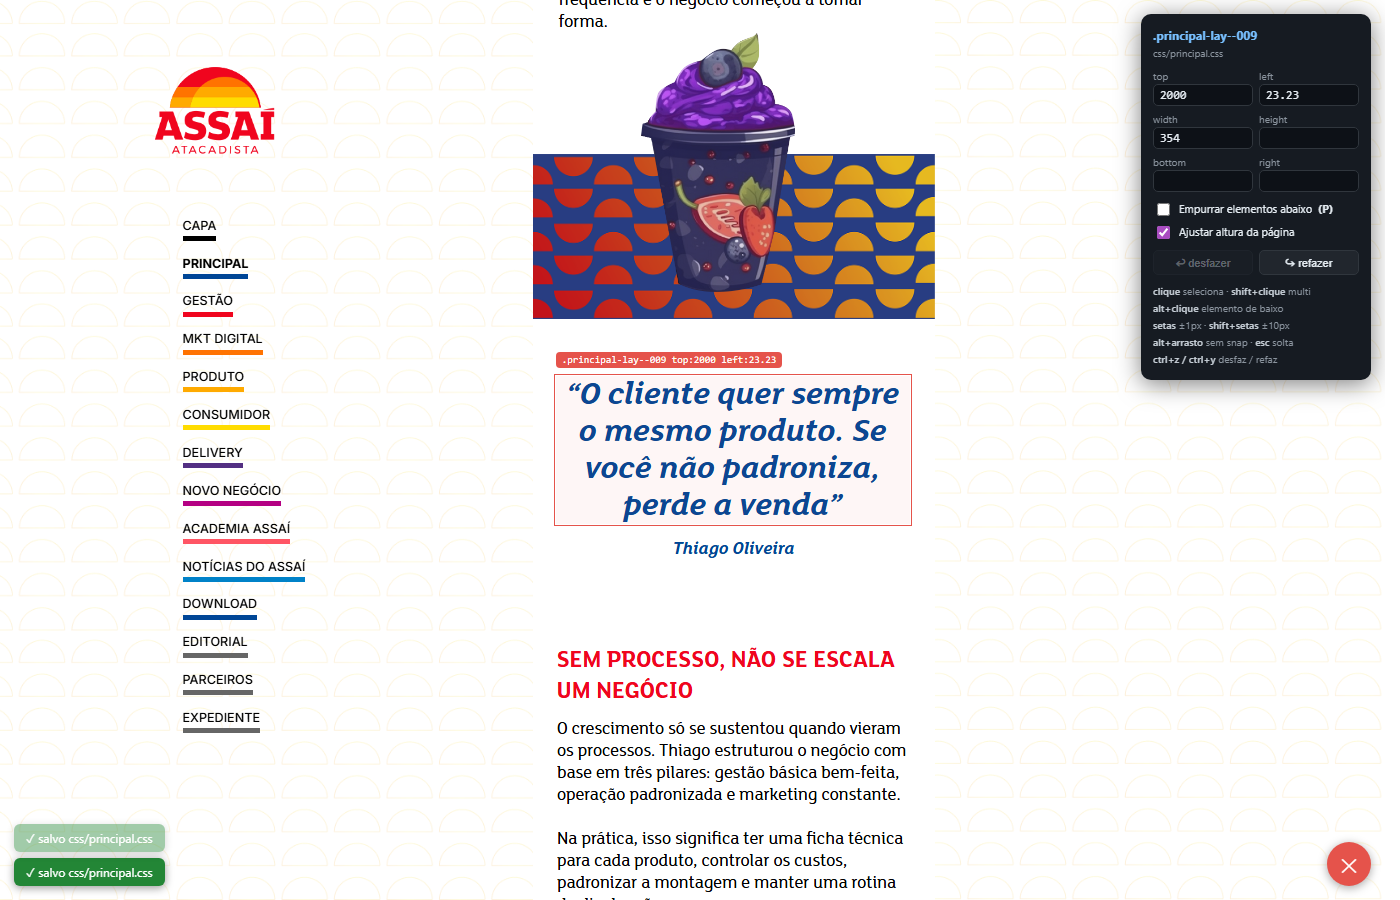
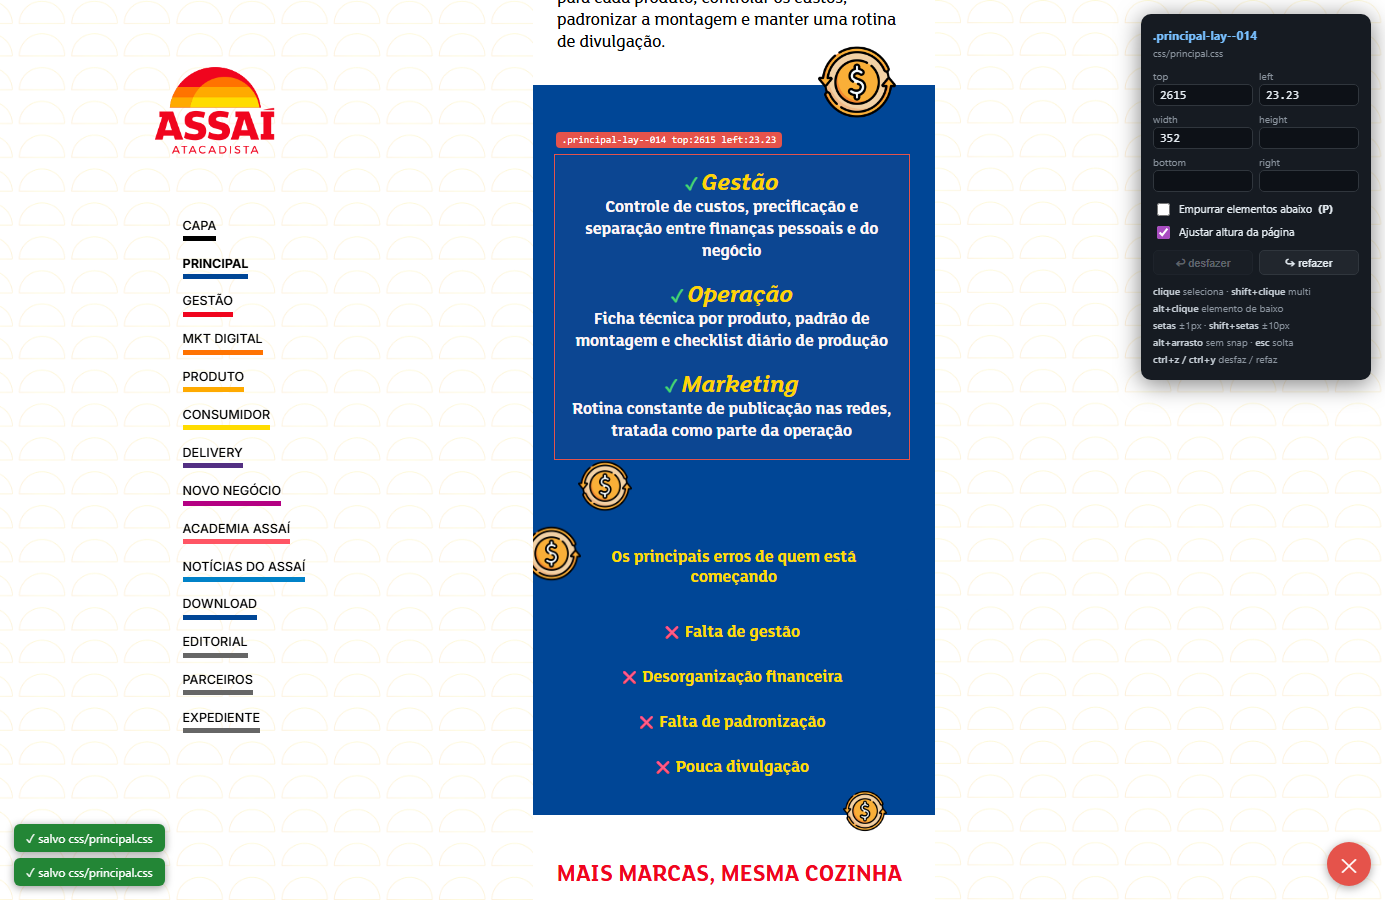
Editor: mapeamento por regra dona de cada propriedade
- ignora regras sem medidas em px (.img-cover etc.) — clique na imagem
  seleciona o contêiner posicionado
- posição dividida entre classes: cada eixo grava na última regra da
  cascata que define a propriedade (ex. top na .z-deco-bg-mid, left na
  .principal-lay--013), sem criar props espúrias
- camadas com pointer-events:none ficam selecionáveis no modo edição
- e2e: +2 cenários (imagem em contêiner, posição dividida)

Changed region(s): [[0.3686, 0.0, 0.6757, 1.0], [0.0, 0.9022, 0.1229, 0.9644]]

diff --git a/tools/editor.js b/tools/editor.js
@@ -80,7 +80,13 @@
         if (rule.type !== 1 /* STYLE_RULE */ || rule.parentRule) continue;
         var st = rule.style;
         if (!st) continue;
-        if (!st.top && !st.left && !st.bottom && !st.right && !st.width && !st.height) continue;
+        // só interessa regra com pelo menos uma medida em px — descarta
+        // utilitárias tipo .img-cover { width:100%; height:100% }, que
+        // "roubavam" o clique da imagem sem ter nada editável
+        var temPx = ["top", "left", "bottom", "right", "width", "height"].some(function (p) {
+          return px(st.getPropertyValue(p)) !== null;
+        });
+        if (!temPx) continue;
         var entry = {
           selector: norm(rule.selectorText),
           style: st,
@@ -96,27 +102,38 @@
     for (var f in porArquivo) {
       if (porArquivo[f] > max) { max = porArquivo[f]; pageCssFile = f; }
     }
-    // mapeia elementos -> regra (preferindo -lay--, senão a última que casa)
+    // mapeia elemento -> TODAS as regras que casam (a posição pode estar
+    // dividida: ex. left na .principal-lay--013 e top na .z-deco-bg-mid)
     var els = mainEl.querySelectorAll("*");
     for (var i = 0; i < els.length; i++) {
       var el = els[i];
-      var lay = null, outra = null;
+      var cands = [];
       for (var j = 0; j < ruleIndex.length; j++) {
         var en = ruleIndex[j];
-        var seletorSimples = en.selector.indexOf(",") === -1;
-        if (!seletorSimples) continue;
+        if (en.selector.indexOf(",") !== -1) continue;
         try {
           if (!el.matches(en.selector)) continue;
         } catch (e) { continue; }
-        if (en.lay) lay = en;
-        else outra = en;
+        cands.push(en);
       }
-      var escolhida = lay || outra;
-      if (escolhida) elMap.set(el, escolhida);
+      if (!cands.length) continue;
+      var prim = null;
+      for (var k = 0; k < cands.length; k++) if (cands[k].lay) { prim = cands[k]; break; }
+      elMap.set(el, { cands: cands, prim: prim || cands[cands.length - 1] });
     }
   }
 
-  function ruleOf(el) { return elMap.get(el) || null; }
+  function mapOf(el) { return elMap.get(el) || null; }
+
+  /* Dona de uma propriedade = a ÚLTIMA regra na ordem da cascata que a
+   * define em px (é a que o navegador aplica entre classes de mesmo peso). */
+  function propOwner(map, prop) {
+    var win = null;
+    for (var i = 0; i < map.cands.length; i++) {
+      if (px(map.cands[i].style.getPropertyValue(prop)) !== null) win = map.cands[i];
+    }
+    return win;
+  }
 
   function editableFromPoint(x, y, aposEl) {
     var pilha = document.elementsFromPoint(x, y);
@@ -208,20 +225,36 @@
   function gestureStart(tipo) {
     var pushMode = ui.chkPush.checked;
     var itens = [];
-    var vistos = new Set();
+    var porEntry = new Map();
     selection.forEach(function (el) {
-      var en = ruleOf(el);
-      if (!en || vistos.has(en)) return;
-      vistos.add(en);
-      itens.push({ entry: en, start: snapshotEntry(en), sel: true });
+      var map = mapOf(el);
+      if (!map) return;
+      var ox = propOwner(map, "left") || propOwner(map, "right");
+      var oy = propOwner(map, "top") || propOwner(map, "bottom");
+      [[ox, "mx"], [oy, "my"]].forEach(function (par) {
+        var en = par[0];
+        if (!en) return;
+        var item = porEntry.get(en);
+        if (!item) {
+          item = { entry: en, start: snapshotEntry(en), mx: false, my: false, sel: true };
+          porEntry.set(en, item);
+          itens.push(item);
+        }
+        item[par[1]] = true;
+      });
     });
-    if (!itens.length) return null;
+    if (!itens.length) {
+      toast("este elemento não tem posição em px para mover — tente Alt+clique no contêiner", true);
+      return null;
+    }
 
-    var primario = itens[0];
+    var vistos = new Set(porEntry.keys());
+    var mapPrim = mapOf(selection[0]);
+    var oyPrim = mapPrim ? propOwner(mapPrim, "top") : null;
     var afetadas = [];
     var heightItem = null;
-    if (pushMode && primario.start.top !== undefined) {
-      var limiar = primario.start.top;
+    if (pushMode && oyPrim) {
+      var limiar = px(oyPrim.style.getPropertyValue("top"));
       for (var i = 0; i < ruleIndex.length; i++) {
         var en = ruleIndex[i];
         if (en.file !== pageCssFile || vistos.has(en)) continue;
@@ -275,10 +308,14 @@
 
     g.itens.forEach(function (it) {
       var props = {};
-      if (it.start.left !== undefined) props.left = fmt(it.start.left + dx);
-      else if (it.start.right !== undefined) props.right = fmt(it.start.right - dx);
-      if (it.start.top !== undefined) props.top = fmt(it.start.top + dy);
-      else if (it.start.bottom !== undefined) props.bottom = fmt(it.start.bottom - dy);
+      if (it.mx) {
+        if (it.start.left !== undefined) props.left = fmt(it.start.left + dx);
+        else if (it.start.right !== undefined) props.right = fmt(it.start.right - dx);
+      }
+      if (it.my) {
+        if (it.start.top !== undefined) props.top = fmt(it.start.top + dy);
+        else if (it.start.bottom !== undefined) props.bottom = fmt(it.start.bottom - dy);
+      }
       applyProps(it.entry, props);
     });
     g.afetadas.forEach(function (it) {
@@ -397,12 +434,14 @@
       box.style.height = r.h + "px";
       ui.caixas.appendChild(box);
       if (i === 0) {
-        var en = ruleOf(el);
+        var map = mapOf(el);
         var badge = document.createElement("div");
         badge.className = "rev-ed-badge";
-        var t = px(en.style.getPropertyValue("top"));
-        var l = px(en.style.getPropertyValue("left"));
-        badge.textContent = en.selector + (t !== null ? "  top:" + t : "") + (l !== null ? "  left:" + l : "");
+        var ot = propOwner(map, "top");
+        var ol = propOwner(map, "left");
+        var t = ot ? px(ot.style.getPropertyValue("top")) : null;
+        var l = ol ? px(ol.style.getPropertyValue("left")) : null;
+        badge.textContent = map.prim.selector + (t !== null ? "  top:" + t : "") + (l !== null ? "  left:" + l : "");
         badge.style.left = r.l + "px";
         badge.style.top = (r.t > 24 ? r.t - 22 : r.b + 4) + "px";
         ui.caixas.appendChild(badge);
@@ -415,11 +454,15 @@
   var CAMPOS = ["top", "left", "width", "height", "bottom", "right"];
 
   function atualizarPainelValores() {
-    var en = selection.length ? ruleOf(selection[0]) : null;
+    var map = selection.length ? mapOf(selection[0]) : null;
     CAMPOS.forEach(function (p) {
       var inp = ui.campos[p];
       if (document.activeElement === inp) return;
-      var v = en ? en.style.getPropertyValue(p) : "";
+      var v = "";
+      if (map) {
+        var own = propOwner(map, p);
+        v = own ? own.style.getPropertyValue(p) : map.prim.style.getPropertyValue(p);
+      }
       inp.value = v ? v.replace(/px$/, "") : "";
     });
   }
@@ -430,9 +473,9 @@
       ui.info.textContent = "clique num elemento para selecionar";
       ui.arquivo.textContent = pageCssFile || "";
     } else {
-      var en = ruleOf(selection[0]);
-      ui.info.textContent = en.selector + (selection.length > 1 ? "  (+" + (selection.length - 1) + ")" : "");
-      ui.arquivo.textContent = en.file;
+      var prim = mapOf(selection[0]).prim;
+      ui.info.textContent = prim.selector + (selection.length > 1 ? "  (+" + (selection.length - 1) + ")" : "");
+      ui.arquivo.textContent = prim.file;
     }
     atualizarPainelValores();
     ui.btnUndo.disabled = !undoStack.length;
@@ -441,7 +484,10 @@
 
   function aplicarCampo(prop) {
     if (!selection.length) return;
-    var en = ruleOf(selection[0]);
+    var map = mapOf(selection[0]);
+    // grava na regra dona da propriedade; se ninguém a define ainda,
+    // cria na regra principal (-lay--) do elemento
+    var en = propOwner(map, prop) || map.prim;
     var bruto = ui.campos[prop].value.trim();
     var antes = en.style.getPropertyValue(prop) || null;
     var depois = bruto === "" ? null : (isNaN(parseFloat(bruto)) ? null : fmt(parseFloat(bruto)));
@@ -621,6 +667,10 @@
     "body.rev-ed-arrastando{cursor:grabbing!important;user-select:none}",
     "html[data-rev-editor] main *{animation:none!important;transition:none!important}",
     "html[data-rev-editor] main [data-animista]{opacity:1!important;visibility:visible!important}",
+    /* camadas decorativas com pointer-events:none precisam ser clicáveis no
+       modo edição; os overlays do próprio editor continuam transparentes */
+    "html[data-rev-editor] main :not(#rev-ed-caixas):not(#rev-ed-guias):not(.rev-ed-box):not(.rev-ed-guia):not(.rev-ed-badge){pointer-events:auto!important}",
+    "#rev-ed-caixas,#rev-ed-guias{pointer-events:none!important}",
   ].join("\n");
 
   function montarUI() {

diff --git a/tools/EDITOR-README.md b/tools/EDITOR-README.md
@@ -58,6 +58,17 @@ as regras da página com `top` maior ou igual** ao dele, e o checkbox
 - Elementos posicionados por regras dentro de `@media`, com seletor agrupado
   (`a, b`) ou com valores não-px são ignorados pelo "empurrar".
 
+## Como o editor escolhe a regra a editar
+
+- Clicar numa **imagem dentro de um contêiner posicionado** seleciona o
+  contêiner automaticamente — regras genéricas sem medidas em px (ex.:
+  `.img-cover { width:100%; height:100% }`) são ignoradas.
+- Quando a posição está **dividida entre classes** (ex.: `left` na
+  `.principal-lay--013` e `top` na `.z-deco-bg-mid`), cada eixo é gravado na
+  regra que realmente o define (a última da cascata, que é a que vale).
+- Camadas decorativas com `pointer-events:none` ficam clicáveis dentro do
+  modo edição (fora dele, nada muda).
+
 ## Limitações conhecidas
 
 - Só funciona com a janela em largura desktop (≥ 402px) — abaixo disso o